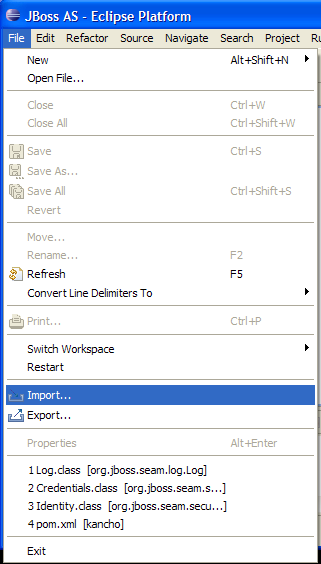
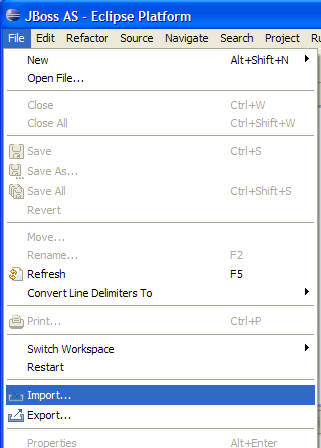
updated doc

diff --git a/doc/tutorial/02-eclipse.html b/doc/tutorial/02-eclipse.html
@@ -48,7 +48,13 @@
 <h2>Download and install software:</h2>
 <ul>
   <li><a href="http://www.eclipse.org/">Eclipse Ganymede 3.4 (with WTP installed)</a></li>
-  <li><a href="http://maven.apache.org/">Maven 2.2.x</a></li>
+  <li><a href="http://maven.apache.org/download.html">Maven 2.0.9</a> or later.<br/>
+    <strong>Note:</strong> Do not use Maven 2.1.0, it has a serious bug, see the 
+    <code>${PROJECT}/doc/maven-2.1.0-bug</code> folder for an explanation.<br/>
+    A Maven-2.2.0 release candidate can be found 
+    <a href="https://repository.apache.org/content/repositories/maven-staging-010/org/apache/maven/apache-maven/2.2.0-RC2/">
+    here</a>.
+  </li>
   <li><a href="http://m2eclipse.codehaus.org/">Eclipse Maven plugin</a></li>
   <li><a href="http://subclipse.tigris.org/">SubClipse-1.6.x, Team Provider plug-in providing support for Subversion within the Eclipse IDE</a></li>
   <li><a href="http://www.jboss.org/tools">JBoss Tools 3</a></li>
@@ -59,11 +65,33 @@
 <ol>
   <li><a href="01-gettingstarted.html#use-as-template">Follow steps here</a> to set up the project.</li>
   <li>Install <a href="http://m2eclipse.codehaus.org/">Eclipse Maven plugin</a> if you haven't done so yet.</li>
+  <li>Copy <code>${SEAM_TUTORIAL}/config/profiles/profiles.xml</code> to <code>${SEAM_TUTORIAL}</code></li>
+  <li>Create a workspace folder, e.g. C:/seam-workspace<br/>
+    <strong>Note:</strong> Do not use your project folder, ${SEAM_TUTORIAL}, as a workspace folder.</li>
+  <li>Open profiles.xml and point the <code>env.eclipse.workspace</code> property to the newly 
+    created folder, 
+    <br/>e.g. 
+    <code>&lt;env.eclipse.workspace&gt;C:/seam-workspace&lt;/env.eclipse.workspace&gt;</code>
+  </li>
   <li>Navigate to the ${SEAM_TUTORIAL} folder using a command shell and execute maven commands:<br/>
     <code>mvn clean install<br/>
+    mvn eclipse:configure-workspace<br/>
     mvn eclipse:m2eclipse</code><br/> 
     The last Maven command will generate the Eclipse <code>.project</code> and <code>.classpath</code> 
     files that now makes the project a valid Eclipse project.
+  </li>
+  <li>Open Eclipse and select to the newly created workspace folder.
+    <img src="img/eclipse-workspace-launcher.png" style="width:500px; display:block;" />
+  </li>
+  <li>
+    Configure Eclipse to use an external Maven installation.
+    <img src="img/eclipse-maven-installations.png" style="width:700px; display:block;" />
+  </li>
+  <li>
+    Import project:
+    <img src="img/eclipse-import.png" style="width:250px; display:block;" /><br/>
+    <img src="img/eclipse-import-maven-01.png" style="width:400px; display:block;" /><br/>
+    <img src="img/eclipse-import-maven-02.png" style="width:500px; display:block;" /><br/>
   </li>
 </ol>
 
@@ -149,8 +177,8 @@
 
 <h3>m2eclipse issues</h3>
 <p>There is a problem with running <code>mvn install</code> from eclipse, see: 
-<a href="http://www-02.imixs.com:8081/roller/ralphsjavablog/entry/eclipse_maven_install_from_runas">
-http://www-02.imixs.com:8081/roller/ralphsjavablog/entry/eclipse_maven_install_from_runas</a>
+  <a href="http://www-02.imixs.com:8081/roller/ralphsjavablog/entry/eclipse_maven_install_from_runas">
+  http://www-02.imixs.com:8081/roller/ralphsjavablog/entry/eclipse_maven_install_from_runas</a>
 </p>
 
 </div> <!-- #page -->

diff --git a/doc/tutorial/01-gettingstarted.html b/doc/tutorial/01-gettingstarted.html
@@ -55,9 +55,10 @@
   <li><a href="http://java.sun.com/javase/downloads/index.jsp">jdk-1.5</a></li>
   <li><a href="http://maven.apache.org/download.html">Maven 2.0.9</a> or later.<br/>
     <strong>Note:</strong> Do not use Maven 2.1.0, it has a serious bug, see the 
-    <code>${PROJECT}/doc/maven-2.1.0-bug</code> folder for an explanation.
-    A Maven-2.2.0 release candidate can be found <a href="https://repository.apache.org/content/repositories/maven-staging-010/org/apache/maven/apache-maven/2.2.0-RC2/">
-      here</a>.
+    <code>${PROJECT}/doc/maven-2.1.0-bug</code> folder for an explanation.<br/>
+    A Maven-2.2.0 release candidate can be found 
+    <a href="https://repository.apache.org/content/repositories/maven-staging-010/org/apache/maven/apache-maven/2.2.0-RC2/">
+    here</a>.
   </li>
   <li>
     <a href="http://tortoisesvn.tigris.org/">Tortoise SVN</a> or a SVN client of your choice.<br/> 

diff --git a/doc/styles/site/site.css b/doc/styles/site/site.css
@@ -100,7 +100,7 @@ h4 a:hover, h5 a:hover, h6 a:hover {
 -------------------------------------------------------------- */
 p,  ul,    ol, dl,
 dl, table, blockquote {
-  font-size: 1.2em; 
+  font-size: 12px; /*1.2em; */
   line-height: 1.2; /* Use same (unitless) value as font-size */
 }
 p { 
@@ -185,6 +185,7 @@ ol {
 }
 li {
   line-height: 1.4;
+  font-size: 12px;
 }
 li ul, li ol { 
   margin: 0 1.6em; 
